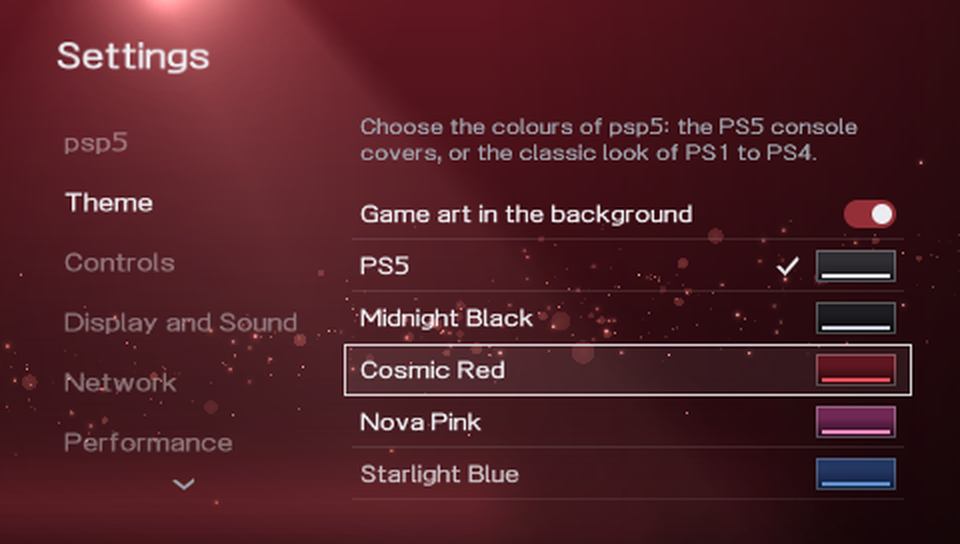
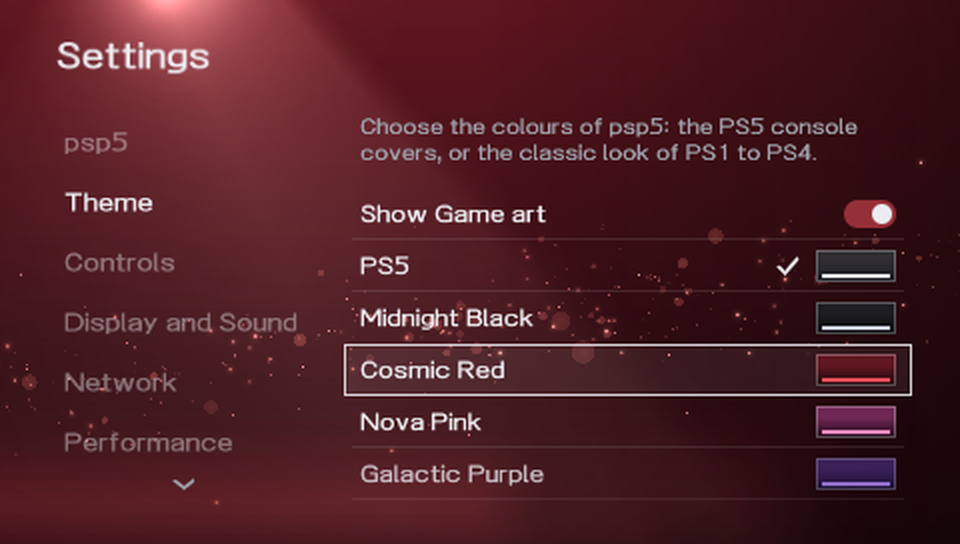
USB Mode comes back to Settings; README screenshots made again
USB Mode is a "visit" like the File Manager and the PSP's Wi-Fi screen now:
leaving it brings you back to Settings -> Power and USB, on the USB Mode row,
and not to the main screen (settings_is_visit()).

Screenshots: the power menu says "Shut down", Settings -> Theme has "Show Game
art" and the themes that are left, and Information has the new "Last played"
row (invented demo data). All 14 pictures were shot again with the same kit;
the other eleven are the same pixel for pixel, so only these three change. The
README caption of the Information picture mentions when you played it last, and
the note under the table says the clock and the dates are test values.

Claude-Session: https://claude.ai/code/session_01Ggf7fWbBwvS8yufh4LMx3Z

Changed region(s): [[0.375, 0.375, 0.7188, 0.4375], [0.375, 0.8438, 0.5625, 0.9062], [0.8438, 0.875, 0.9375, 0.9062]]

diff --git a/src/main.c b/src/main.c
@@ -553,7 +553,7 @@ int main(int argc, char *argv[])
                 settings_commit();
                 if (run_action(action, &list, &ui)) {
                     app_start(&list, &ui, 0);
-                    if (settings_is_visit(action)) { /* the PSP's own screen, the File Manager: back in Settings, on the same row (not the main screen) */
+                    if (settings_is_visit(action)) { /* the PSP's own screen, the File Manager, USB Mode: back in Settings, on the same row (not the main screen) */
                         if (action == SA_WIFI && s_wifi_failed)
                             settings_notice(L(S_WIFI_FAILED));
                     } else {

diff --git a/src/settings.h b/src/settings.h
@@ -9,7 +9,7 @@ enum {
     SA_NONE, SA_CLOSE, SA_USB, SA_XMB, SA_RESTART, SA_SUSPEND, SA_SHUTDOWN, SA_RECOVERY, SA_CLEAR_CACHE, SA_FILES, SA_WIFI,
 };
 
-/* 1 = the action is a visit: when it is over psp5 comes back to Settings, on the same row (the PSP's own Wi-Fi screen, the File Manager), and not to the
+/* 1 = the action is a visit: when it is over psp5 comes back to Settings, on the same row (the PSP's own Wi-Fi screen, the File Manager, USB Mode), and not to the
  * main screen like after the others. */
 int settings_is_visit(int action);
 

diff --git a/src/settings.c b/src/settings.c
@@ -605,7 +605,7 @@ void settings_open(void)
 
 int settings_is_visit(int action)
 {
-    return action == SA_WIFI || action == SA_FILES;
+    return action == SA_WIFI || action == SA_FILES || action == SA_USB;
 }
 
 void settings_notice(const char *msg)

diff --git a/docs/DEVELOPER-NOTES.md b/docs/DEVELOPER-NOTES.md
@@ -58,8 +58,8 @@ The changes after 1.2.0 are noted here; the list for users is under *Unreleased*
   - *What it means.* A game that was played but then taken off Home goes after the games on Home (Home is the list the maintainer sees), and a game that fell off the end of the forty is sorted by its time among the others. A game with no time that is on Home keeps its place from Home.
 - **Information shows when a game was played last** (`info.c`, `lang.c` / `lang.h`; `info.c` now includes `lastplayed.h`, and `lastplayed.o` was already in the `Makefile`). `time_row()` is the old `modified_row()` made general; `last_played_row()` puts `L(S_I_LAST_PLAYED)` ("Last played") right after *Modified* in `iso_rows()` and `pbp_rows()` (not in `umd_rows()`: the disc has no time). No row when `lastplayed_time(e)` is 0.
   The text is new in all 11 languages (`S_I_LAST_PLAYED`: Senast spelad, Zuletzt gespielt, Dernier lancement, Última vez jugado, Ultimo avvio, Laatst gespeeld, Jogado pela última vez, Последний запуск, 最終プレイ日時, Naposledy hráno); the strings are 209 now.
-- **Closing the File Manager comes back to Settings -> Power and USB** (`main.c`, `settings.c` / `settings.h`). `settings_is_visit(action)` is 1 for `SA_WIFI` and `SA_FILES`; after `run_action()` and `app_start()` the main loop stays in Settings (`in_settings` stays 1, the category and row are as they were, `old = s_raw` keeps the Back press from closing Settings)
-  for a visit, and goes to the main screen after every other action as before. `SA_USB` is not a visit: USB Mode still ends on the main screen (not asked for).
+- **Closing the File Manager or USB Mode comes back to Settings -> Power and USB** (`main.c`, `settings.c` / `settings.h`). `settings_is_visit(action)` is 1 for `SA_WIFI`, `SA_FILES` and `SA_USB`; after `run_action()` and `app_start()` the main loop stays in Settings (`in_settings` stays 1, the category and row are as they were, `old = s_raw` keeps the Back press from closing Settings)
+  for a visit, and goes to the main screen after every other action as before. (USB Mode was added a little later, on request: it ended on the main screen first. `usb_mode()` returns 1 like the others, so the list is scanned again, as the files may have changed.)
 - **Names** (`lang.c`): `S_SHUTDOWN` is "Shut down" in English (the other ten were already in the form of a verb phrase; `S_RECOVERY` and the others keep their capitals); `S_THEME_ART` is "Show Game art" (it was "Game art in the background") with the new texts in the other ten languages: Visa spelbilder, Spielbilder anzeigen, Afficher les images des jeux,
   Mostrar imágenes de juegos, Mostra le immagini dei giochi, Gamebeelden tonen, Mostrar imagens dos jogos, Показывать обложки игр, ゲーム画像を表示, Zobrazit obrázky her. `README.md`, `INSTALL.md` and the changelog say "Shut down" and "Show Game art".
 - **Three themes are removed** (`theme.c`, `theme.h`, `boot.c`, `tools/tests/theme.txt`): "blue" (Starlight Blue), "indigo" (Chroma Indigo) and "pearl" (Chroma Pearl) are gone from `THEMES[]` and `THEME_FIRST_CLASSIC` is 9 (13 themes: nine colours, PS1 to PS4). Nothing else changes: `psp5.cfg` keeps the theme as a code (`theme=blue`), and
@@ -68,7 +68,7 @@ The changes after 1.2.0 are noted here; the list for users is under *Unreleased*
 - *Tests* of these changes (private, not in git; the full run is 60 groups, all PASS): `ui/library_test.c` has a new "recently played" section (`library_open_home()` makes the list with a `home.txt` of its own, `play()` does what `main.c` does when it starts a game, `same_order_as_games()` compares the Games tab and the Library):
   the first start, games that were played, games on Home without a time, games not on Home (played / never played, a tie by name where the list order is the other way round, a time of 4294967295), pins, folders (best game, open folder, the view of both), Add / Remove / Pin on the Games tab changing the Library, the Sort popup and
   `psp5.cfg`, and 60 sortings leaving no memory (1144 checks); `home/home_test.c` (`home_recent_rank()`: places, the newest 0, a pinned card, the disc even when the file names its id, launch / remove / add / pin / unpin, forty places: 105 checks); `gameinfo/info_test.c` (the Last played row: none without a time, after Modified, ISO and
-  app, none for a PS1 game without a time and for the disc, the first and the last minute that can be kept, and the label and the width of the row in all 11 languages: 159 checks; its link line now has `lastplayed.c` and `scan.c`); `settings/settings_test.c` (`settings_is_visit()` for every action, the File Manager row, Settings still on that row, the Theme page with Show Game art and the 13 themes in order, ✕ chooses each: 417 checks) with a
+  app, none for a PS1 game without a time and for the disc, the first and the last minute that can be kept, and the label and the width of the row in all 11 languages: 159 checks; its link line now has `lastplayed.c` and `scan.c`); `settings/settings_test.c` (`settings_is_visit()` for every action, the File Manager and USB Mode rows, Settings still on that row, the Theme page with Show Game art and the 13 themes in order, ✕ chooses each: 421 checks) with a
   source check in `run_all.sh` that `main.c` asks `settings_is_visit()` and leaves Settings after the other actions; `gfx/theme_test.c` (13 themes, the three names and codes are gone, no name or code twice, every code finds its theme, 15 codes that are not themes give PS5, a number that is not a theme gives PS5, the 13 codes psp5.cfg files already have: 302 checks) and
   `gfx/boot_test.c` (indices of the colour checks moved; Cobalt Blue instead of Starlight Blue); `units/config_test.c` (`theme=blue`, `indigo` and `pearl` start on PS5 and keep every other line, saving writes `theme=ps5`, also without a line end, and every theme that is left comes back as it was); `units/caps_test.c` ("Shut down" is not a title any more; "Show Game art" and "Last played" word for word in
   all 11 languages); `units/t.c` through `run_all.sh` (209 strings, none empty in Czech); `units/lastplayed_test.c` (the checks of `lastplayed_sort_time()` are gone with it).
@@ -76,7 +76,11 @@ The changes after 1.2.0 are noted here; the list for users is under *Unreleased*
   the folder taking its worst game, the old time key, the disc not first, the order reversed, the tie by name), `home_recent_rank()` (no guard for the disc, the wrong list, one too many), the Last played row (left out of the ISO rows, left out of the app rows, the file time instead, the label of Modified, no guard for 0, before Modified, the wrong label on Modified, the month in 3 bits instead of 4),
   `settings_is_visit()` (four wrong answers) and its use in `main.c` (the old test, no leaving of Settings after the others, the Wi-Fi notice after the File Manager), the theme code (an unknown code giving theme 1, no check of the end of the code, `theme_get()` one past the end, three changed codes, `THEME_FIRST_CLASSIC`) and the texts (nine, in several languages, one removed). A hole found and closed: a played time near
   4294967295 beating a game on Home (the group number alone did not matter for real times, so the test uses that number). Not caught, nothing changes: the tie-break by folder number in `cmp_folder_played` (the folders are numbered in the order of their names and the host's `qsort` keeps equal elements in order); also not a change: `last_played_row()` in `umd_rows()` (`lastplayed_time()` is 0 for the disc anyway).
-- *Screenshots*: `docs/screenshots/power-menu.png` still shows "Shut Down" and `settings-theme.png` the old label and the three themes; they are from before this change and need the screenshot kit again (not redone here).
+- *Mutation checks of the USB Mode change* (`mutbatch12.sh`): six wrong answers of `settings_is_visit()` (no USB Mode, no File Manager, no Wi-Fi, the XMB or *Clear cache* as visits too, always 1): all caught by the settings group. Full private run after it: 60 groups, ALL PASSED.
+- *Screenshots* (`docs/screenshots/`): `power-menu.png` (Shut down), `settings-theme.png` (Show Game art, the themes that are left) and `information.png` (the Last played row) are made again; the README caption of the Information picture says "when you played it last" and the note under the table says the clock and the dates are test values.
+  All 14 pictures were shot again with the kit and compared with the ones in git: the other eleven are the same pixel for pixel (the kit gives exactly the old pictures), so only these three were replaced. How: PPSSPP 1.20.4 with the kit's patch, the test build (`make EXTRA=-DPSP5_TEST`) on the demo stick of `make_demo.py` (needs `genisoimage`, `ffmpeg` with libmp3lame, `pack-pbp`),
+  the run under `faketime "2026-10-27 21:05:00"` (libfaketime, `FAKETIME_DONT_FAKE_MONOTONIC=1`) so the clock reads 21:05 as in the other pictures; PPSSPP does not take its file dates from the faked clock, so `shoot.sh` moves the dates of all demo files by the same amount after copying the stick (Neon Harbor.iso: 2026-10-27 20:40; the order of the files, which decides
+  Home's cards, is the one the copy gives) and `PSP5/lastplayed.txt` of the demo has one line, `3132575872 ULUS90003` (2026-10-27 21:02, a packed time). The changed kit scripts are in the private bundle (`screenshot-kit-2026-10/`).
 
 
 ## Version 1.2.0 (changes after 1.1.0)

diff --git a/README.md b/README.md
@@ -17,7 +17,7 @@ wherever it can, but it doesn't copy the console in everything.
     <td width="50%"><img src="docs/screenshots/library-folders.png" alt="Library with folders"><br><sub><b>Folders</b> – the Library can show the folders as cards; the button at the top left chooses what you see</sub></td>
   </tr>
   <tr>
-    <td width="50%"><img src="docs/screenshots/information.png" alt="Information"><br><sub><b>Information</b> – what a game or app is, where it is and how big it is</sub></td>
+    <td width="50%"><img src="docs/screenshots/information.png" alt="Information"><br><sub><b>Information</b> – what a game or app is, where it is, how big it is and when you played it last</sub></td>
     <td width="50%"><img src="docs/screenshots/saved-data.png" alt="Manage Saved Data"><br><sub><b>Manage Saved Data</b> – look through saves, mark several and delete them, with the space you get back</sub></td>
   </tr>
   <tr>
@@ -38,7 +38,7 @@ wherever it can, but it doesn't copy the console in everything.
   </tr>
 </table>
 
-*The screenshots were taken in the PPSSPP emulator with invented demo games, music and saves. The clock shows the time they were taken; the battery, volume and brightness are test values.*
+*The screenshots were taken in the PPSSPP emulator with invented demo games, music and saves. The clock, the dates, the battery, volume and brightness are test values.*
 
 ## What you get
 

diff --git a/CHANGELOG.md b/CHANGELOG.md
@@ -21,7 +21,7 @@ Newest first. Changes that are not in a release yet are under *Unreleased*.
 
 ### Settings
 
-- **Closing the File Manager brings you back to Settings → Power and USB**, on the *File Manager* row (before, to the main screen). The Wi-Fi screen already did this.
+- **Closing the File Manager or USB Mode brings you back to Settings → Power and USB**, on the row you came from (before, to the main screen). The Wi-Fi screen already did this.
 - **The switch is called *Show Game art*** now (it was *Game art in the background*), in all 11 languages.
 - **Three themes are gone:** *Starlight Blue*, *Chroma Indigo* and *Chroma Pearl* looked almost like *Cobalt Blue*, *Galactic Purple* and *Sterling Silver*. If you had chosen one of
   them, psp5 starts with the PS5 theme instead.
